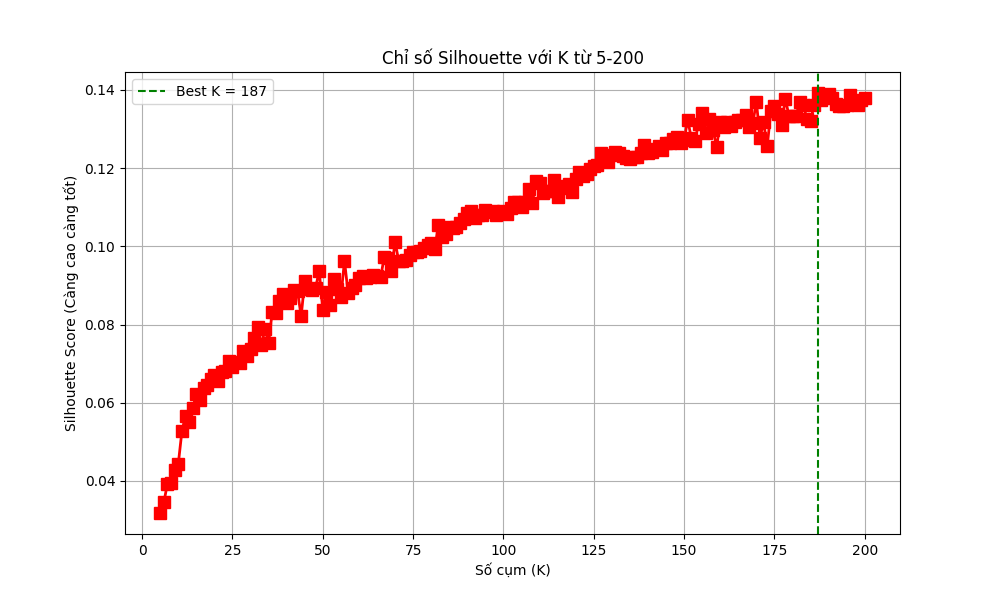
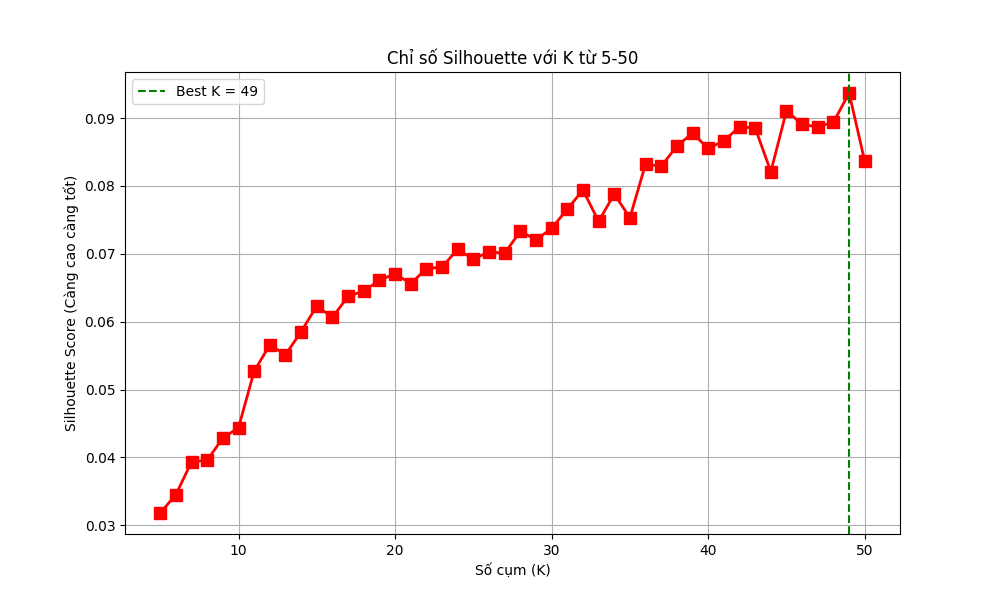
Update project

diff --git a/src/app.py b/src/app.py
@@ -2,11 +2,7 @@ import streamlit as st
 import pandas as pd
 import pickle
 import os
-import re
 import numpy as np
-import requests
-from bs4 import BeautifulSoup
-from underthesea import word_tokenize
 
 # --- CẤU HÌNH TRANG ---
 st.set_page_config(page_title="Hot News Detection", page_icon="🔥", layout="wide")
@@ -30,10 +26,6 @@ st.markdown("""
     .hot-badge { background-color: #ffebee; color: #b71c1c; padding: 6px 12px; border-radius: 20px; font-size: 14px; font-weight: bold; border: 1px solid #ffcdd2; display: inline-block; margin-top: 15px; }
     .related-item { padding: 8px 0; border-bottom: 1px solid #eee; font-size: 16px; }
     
-    /* Style cho kết quả check link */
-    .check-result-success { background-color: #e8f5e9; padding: 15px; border-radius: 10px; border: 1px solid #4caf50; color: #2e7d32; font-weight: bold; }
-    .check-result-fail { background-color: #fff3e0; padding: 15px; border-radius: 10px; border: 1px solid #ff9800; color: #ef6c00; font-weight: bold; }
-    
     a { text-decoration: none; color: #1565C0; }
     a:hover { text-decoration: underline; color: #d32f2f; }
 </style>
@@ -43,9 +35,8 @@ st.markdown("""
 BASE_DIR = os.path.dirname(os.path.dirname(os.path.abspath(__file__)))
 PROCESSED_DIR = os.path.join(BASE_DIR, 'data', 'processed')
 TWO_STAGE_DIR = os.path.join(PROCESSED_DIR, 'two_stage_results')
-ASSETS_DIR = os.path.join(BASE_DIR, 'src', 'assets')
 
-# --- BẢN ĐỒ TÊN CHỦ ĐỀ (CẬP NHẬT MỚI NHẤT CHO DATA 9000 BÀI) ---
+# --- BẢN ĐỒ TÊN CHỦ ĐỀ ---
 TOPIC_NAMES = {
     29: "Đời sống & Không gian sống",
     8: "Kinh tế & Phát triển Doanh nghiệp",
@@ -87,18 +78,13 @@ TOPIC_NAMES = {
 @st.cache_resource
 def load_data_and_models():
     try:
+        # Vẫn cần load vectorizer và lsa_model để lấy keywords (get_feature_names_out)
         vec = pickle.load(open(os.path.join(PROCESSED_DIR, 'lsa_tfidf_vectorizer.pkl'), 'rb'))
         lsa = pickle.load(open(os.path.join(PROCESSED_DIR, 'lsa_model.pkl'), 'rb'))
         km = pickle.load(open(os.path.join(TWO_STAGE_DIR, 'kmeans_two_stage.pkl'), 'rb'))
         
         with open(os.path.join(PROCESSED_DIR, 'lsa_matrix.pkl'), 'rb') as f:
             lsa_matrix = pickle.load(f)
-
-        stopwords_path = os.path.join(ASSETS_DIR, 'stopwords', 'vietnamese-stopwords.txt')
-        sw = set()
-        if os.path.exists(stopwords_path):
-            with open(stopwords_path, 'r', encoding='utf-8') as f:
-                sw = set(line.strip() for line in f)
 
         df_path = os.path.join(TWO_STAGE_DIR, 'two_stage_clusters.csv')
         if os.path.exists(df_path):
@@ -109,48 +95,17 @@ def load_data_and_models():
         else:
             df = None
         
-        return vec, lsa, km, sw, df, lsa_matrix
+        return vec, lsa, km, df, lsa_matrix
     except Exception as e:
         st.error(f"Lỗi nạp dữ liệu: {e}")
-        return None, None, None, None, None, None
+        return None, None, None, None, None
 
-vectorizer, lsa_model, kmeans, stopwords, df_data, lsa_matrix = load_data_and_models()
+vectorizer, lsa_model, kmeans, df_data, lsa_matrix = load_data_and_models()
 
-# --- 2. HÀM XỬ LÝ & LẤY DỮ LIỆU TỪ LINK ---
-def preprocess_text(text, stopwords):
-    if not text: return ""
-    text = str(text).lower()
-    text = re.sub(r'https?://[^\s\n\r]+', '', text)
-    text = re.sub(r'[^a-zàáạảãâầấậẩẫăằắặẳẵèéẹẻẽêềếệểễìíịỉĩòóọỏõôồốộổỗơờớợởỡùúụủũưừứựửữỳýỵỷỹđ\s]', ' ', text)
-    text = re.sub(r'\s+', ' ', text).strip()
-    try:
-        tokens = word_tokenize(text, format="text").split()
-    except:
-        tokens = text.split()
-    return ' '.join([w for w in tokens if w not in stopwords and len(w) > 1])
-
-def fetch_content_from_url(url):
-    """Hàm cào nhanh nội dung từ URL dùng requests và BeautifulSoup"""
-    try:
-        headers = {'User-Agent': 'Mozilla/5.0 (Windows NT 10.0; Win64; x64) AppleWebKit/537.36 (KHTML, like Gecko) Chrome/91.0.4472.124 Safari/537.36'}
-        response = requests.get(url, headers=headers, timeout=5)
-        if response.status_code == 200:
-            soup = BeautifulSoup(response.content, 'html.parser')
-            # Lấy tiêu đề
-            title = soup.title.string if soup.title else ""
-            # Lấy nội dung từ thẻ p (thường chứa nội dung bài báo)
-            paragraphs = soup.find_all('p')
-            content = " ".join([p.text for p in paragraphs])
-            return title + " " + content
-        else:
-            return None
-    except:
-        return None
-
-# --- 3. HÀM TÍNH TOÁN TRENDING ---
+# --- 2. HÀM TÍNH TOÁN TRENDING (GIỮ NGUYÊN ĐỂ HIỂN THỊ DASHBOARD) ---
 @st.cache_data
 def get_trending_topics(_df, _matrix, _kmeans, _vectorizer, _lsa_model):
-    if _df is None: return [], []
+    if _df is None: return []
     
     distances = _kmeans.transform(_matrix)
     terms = _vectorizer.get_feature_names_out()
@@ -159,11 +114,8 @@ def get_trending_topics(_df, _matrix, _kmeans, _vectorizer, _lsa_model):
     cluster_counts = _df['cluster'].value_counts().sort_values(ascending=False)
     
     trending_list = []
-    top_cluster_ids = [] # Lưu danh sách ID top để check
     
     for cluster_id, count in cluster_counts.head(10).items():
-        top_cluster_ids.append(cluster_id)
-        
         top_k_idx = ordered_centroids[cluster_id, :8]
         keywords = [terms[i] for i in top_k_idx]
         
@@ -198,66 +150,32 @@ def get_trending_topics(_df, _matrix, _kmeans, _vectorizer, _lsa_model):
             'keywords': ", ".join(keywords),
             'related': related_articles
         })
-    return trending_list, top_cluster_ids
+    return trending_list
 
-# --- 4. GIAO DIỆN CHÍNH ---
+# --- 3. GIAO DIỆN CHÍNH ---
 
-# Lấy dữ liệu trending trước để có danh sách Top IDs
+# Lấy dữ liệu trending
 trending_topics = []
-top_ids = []
 if df_data is not None:
-    trending_topics, top_ids = get_trending_topics(df_data, lsa_matrix, kmeans, vectorizer, lsa_model)
+    trending_topics = get_trending_topics(df_data, lsa_matrix, kmeans, vectorizer, lsa_model)
 
-# === SIDEBAR: CÔNG CỤ CHECK TREND ===
+# === SIDEBAR: THÔNG TIN CHUNG ===
 with st.sidebar:
-    st.header("🔗 Kiểm tra Link Bài báo")
-    st.info("Dán link bài báo mới vào đây để xem nó có thuộc chủ đề đang HOT không.")
+    st.image("https://cdn-icons-png.flaticon.com/512/2965/2965879.png", width=80)
+    st.title("Hot News Detection")
+    st.info("Hệ thống tự động phát hiện và phân cụm các chủ đề tin tức nổi bật.")
     
-    input_url = st.text_input("Nhập đường dẫn (URL):")
+    if df_data is not None:
+        st.metric(label="Tổng số bài báo", value=f"{len(df_data):,}")
     
-    if st.button("Kiểm tra ngay", type="primary"):
-        if input_url and vectorizer:
-            with st.spinner("Đang cào dữ liệu và phân tích..."):
-                # B1: Lấy nội dung từ Link
-                raw_content = fetch_content_from_url(input_url)
-                
-                if raw_content and len(raw_content) > 50:
-                    # B2: Tiền xử lý & Dự đoán
-                    processed = preprocess_text(raw_content, stopwords)
-                    vec = vectorizer.transform([processed])
-                    vec_lsa = lsa_model.transform(vec)
-                    c_id = kmeans.predict(vec_lsa)[0]
-                    c_name = TOPIC_NAMES.get(c_id, f"Chủ đề {c_id}")
-                    
-                    # B3: Kiểm tra xem có trong Top 10 không
-                    if c_id in top_ids:
-                        st.markdown(f"""
-                        <div class="check-result-success">
-                            ✅ BÀI NÀY ĐANG HOT!<br>
-                            Thuộc chủ đề: <b>{c_name}</b><br>
-                            (Nằm trong Top 10 chủ đề nổi bật)
-                        </div>
-                        """, unsafe_allow_html=True)
-                    else:
-                        st.markdown(f"""
-                        <div class="check-result-fail">
-                            ⚠ KHÔNG THUỘC TREND HOT.<br>
-                            Thuộc chủ đề: <b>{c_name}</b><br>
-                            (Chủ đề này hiện ít được quan tâm)
-                        </div>
-                        """, unsafe_allow_html=True)
-                else:
-                    st.error("❌ Không lấy được nội dung từ link này. Vui lòng kiểm tra lại đường dẫn hoặc trang web chặn bot.")
-        elif not input_url:
-            st.warning("Vui lòng nhập đường dẫn!")
-
     st.markdown("---")
     st.caption("Sinh viên: Vũ Huy Hưng")
+    st.caption("Đồ án Tốt nghiệp")
 
 # === MAIN CONTENT: TOP TRENDING ===
 st.markdown("<h1 style='text-align: center; color: #d32f2f;'>🔥 CÁC CHỦ ĐỀ TIN TỨC NỔI BẬT NHẤT 🔥</h1>", unsafe_allow_html=True)
 if df_data is not None:
-    st.markdown(f"<p style='text-align: center; font-size: 18px; color: #555;'>Hệ thống tự động tổng hợp và phân tích từ <b>{len(df_data)}</b> bài báo mới nhất</p>", unsafe_allow_html=True)
+    st.markdown(f"<p style='text-align: center; font-size: 18px; color: #555;'>Dữ liệu được cập nhật và phân tích tự động</p>", unsafe_allow_html=True)
 st.markdown("---")
 
 col_spacer1, col_content, col_spacer2 = st.columns([1, 6, 1])

diff --git a/src/analysis/interpret_two_stage.py b/src/analysis/interpret_two_stage.py
@@ -1,85 +1,56 @@
 import pandas as pd
 import pickle
-import sys
-import os
 import numpy as np
+import os
 
 # --- CẤU HÌNH ---
 K_VALUE = 34
-N_KEYWORDS = 15
-N_REPRESENTATIVES = 3
-N_CANDIDATES = 20 # Lấy nhiều ứng viên để lọc bài lỗi
+TOP_KEYWORDS = 15
+TOP_DOCS = 3
+DATA_DIR = 'data/processed'
 
-PROCESSED_DIR = 'data/processed'
-CSV_PATH = os.path.join(PROCESSED_DIR, 'processed_data.csv')
-VECTORIZER_PATH = os.path.join(PROCESSED_DIR, 'lsa_tfidf_vectorizer.pkl')
-LSA_MODEL_PATH = os.path.join(PROCESSED_DIR, 'lsa_model.pkl')
-MODEL_DIR = os.path.join(PROCESSED_DIR, 'two_stage_results')
-KMEANS_MODEL_PATH = os.path.join(MODEL_DIR, f'kmeans_two_stage.pkl')
-MATRIX_PATH = os.path.join(PROCESSED_DIR, 'lsa_matrix.pkl')
+# --- 1. NẠP DỮ LIỆU ---
+print("Đang nạp dữ liệu...")
+vectorizer = pickle.load(open(f'{DATA_DIR}/lsa_tfidf_vectorizer.pkl', 'rb'))
+lsa_model = pickle.load(open(f'{DATA_DIR}/lsa_model.pkl', 'rb'))
+kmeans = pickle.load(open(f'{DATA_DIR}/two_stage_results/kmeans_two_stage.pkl', 'rb'))
+with open(f'{DATA_DIR}/lsa_matrix.pkl', 'rb') as f:
+    X_lsa = pickle.load(f)
 
-print(f"--- PHÂN TÍCH CHỦ ĐỀ (K={K_VALUE}) ---")
-try:
-    vectorizer = pickle.load(open(VECTORIZER_PATH, 'rb'))
-    lsa_model = pickle.load(open(LSA_MODEL_PATH, 'rb'))
-    kmeans = pickle.load(open(KMEANS_MODEL_PATH, 'rb'))
-    with open(MATRIX_PATH, 'rb') as f:
-        X_lsa = pickle.load(f)
-    
-    df = pd.read_csv(CSV_PATH)
-    df.dropna(subset=['processed_content'], inplace=True)
-    df = df[df['processed_content'].str.strip() != '']
-    df.reset_index(drop=True, inplace=True)
-    print("Nạp dữ liệu thành công.")
-except Exception as e:
-    print(f"Lỗi nạp dữ liệu: {e}")
-    sys.exit(1)
+df = pd.read_csv(f'{DATA_DIR}/processed_data.csv')
+# Lọc bỏ dữ liệu rỗng ngay từ đầu
+df = df.dropna(subset=['processed_content'])
+df = df[df['processed_content'].str.strip() != ''].reset_index(drop=True)
 
-
-# Gán nhãn cụm cho từng bài báo
+# --- 2. XỬ LÝ ---
+# Gán cụm và tính khoảng cách tới tâm cụm (lấy giá trị min của khoảng cách)
 df['cluster'] = kmeans.predict(X_lsa)
-# Tính khoảng cách từ bài báo đến các tâm cụm
-distances = kmeans.transform(X_lsa)
+df['distance'] = kmeans.transform(X_lsa).min(axis=1)
 
-# Giải mã từ khóa (LSA -> TF-IDF)
+# Giải mã từ khóa (LSA -> TF-IDF -> Terms)
 terms = vectorizer.get_feature_names_out()
-centroids_lsa = kmeans.cluster_centers_
-svd = lsa_model.named_steps['truncatedsvd']
-centroids_tfidf = svd.inverse_transform(centroids_lsa)
-sorted_term_indices = centroids_tfidf.argsort()[:, ::-1]
+centroids_tfidf = lsa_model.named_steps['truncatedsvd'].inverse_transform(kmeans.cluster_centers_)
+sorted_keywords_idx = centroids_tfidf.argsort()[:, ::-1]
 
+# --- 3. HIỂN THỊ KẾT QUẢ ---
+print(f"\n--- KẾT QUẢ PHÂN TÍCH ({K_VALUE} CHỦ ĐỀ) ---")
 
-print("\n--- KẾT QUẢ GÁN NHÃN ---")
-
-for i in range(K_VALUE):
-    print(f"\n==================== CHỦ ĐỀ {i} ====================")
+for k in range(K_VALUE):
+    print(f"\n=== CHỦ ĐỀ {k} ===")
     
     # A. In từ khóa
-    top_indices = sorted_term_indices[i, :N_KEYWORDS]
-    top_keywords = [terms[idx] for idx in top_indices]
-    print(f"  TỪ KHÓA: {', '.join(top_keywords)}")
+    keywords = [terms[i] for i in sorted_keywords_idx[k, :TOP_KEYWORDS]]
+    print(f"  TỪ KHÓA: {', '.join(keywords)}")
     
-    # B. Tìm bài báo đại diện
-    indices_in_cluster = df[df['cluster'] == i].index
-    if len(indices_in_cluster) == 0:
-        continue
-        
-    # Lấy khoảng cách của các bài trong cụm đến tâm cụm
-    cluster_distances = distances[indices_in_cluster, i]
-    # Lấy top các bài gần tâm nhất
-    local_indices = np.argsort(cluster_distances)[:N_CANDIDATES]
-    candidate_indices = indices_in_cluster[local_indices]
+    # B. Tìm bài báo đại diện (Sắp xếp theo distance tăng dần -> Lọc tiêu đề rác -> Lấy top đầu)
+    cluster_docs = df[df['cluster'] == k].sort_values('distance')
     
-    print("  BÀI BÁO ĐẠI DIỆN:")
-    count_found = 0
-    for idx in candidate_indices:
-        title = str(df.loc[idx, 'title']).strip()
-        
-        # Lọc bỏ bài báo lỗi hoặc tiêu đề rỗng
-        if title.lower() == "không tìm thấy" or len(title) < 10:
-            continue
-            
-        print(f"    #{count_found + 1}: {title}")
-        count_found += 1
-        if count_found >= N_REPRESENTATIVES:
-            break
+    # Lọc bài có tiêu đề hợp lệ (dài hơn 10 ký tự và không phải "không tìm thấy")
+    valid_docs = cluster_docs[
+        (cluster_docs['title'].str.len() > 10) & 
+        (cluster_docs['title'].str.lower() != 'không tìm thấy')
+    ]
+    
+    # In top bài báo
+    for i, title in enumerate(valid_docs['title'].head(TOP_DOCS)):
+        print(f"    #{i+1}: {title}")

diff --git a/src/analysis/evaluate.py b/src/analysis/evaluate.py
@@ -9,7 +9,7 @@ import time
 
 #vẽ 2 biểu đồ 
 K_MIN = 5
-K_MAX = 200
+K_MAX = 50
 STEP = 1
 
 # Thiết lập đường dẫn (đi ngược 3 cấp từ file này ra thư mục gốc)
